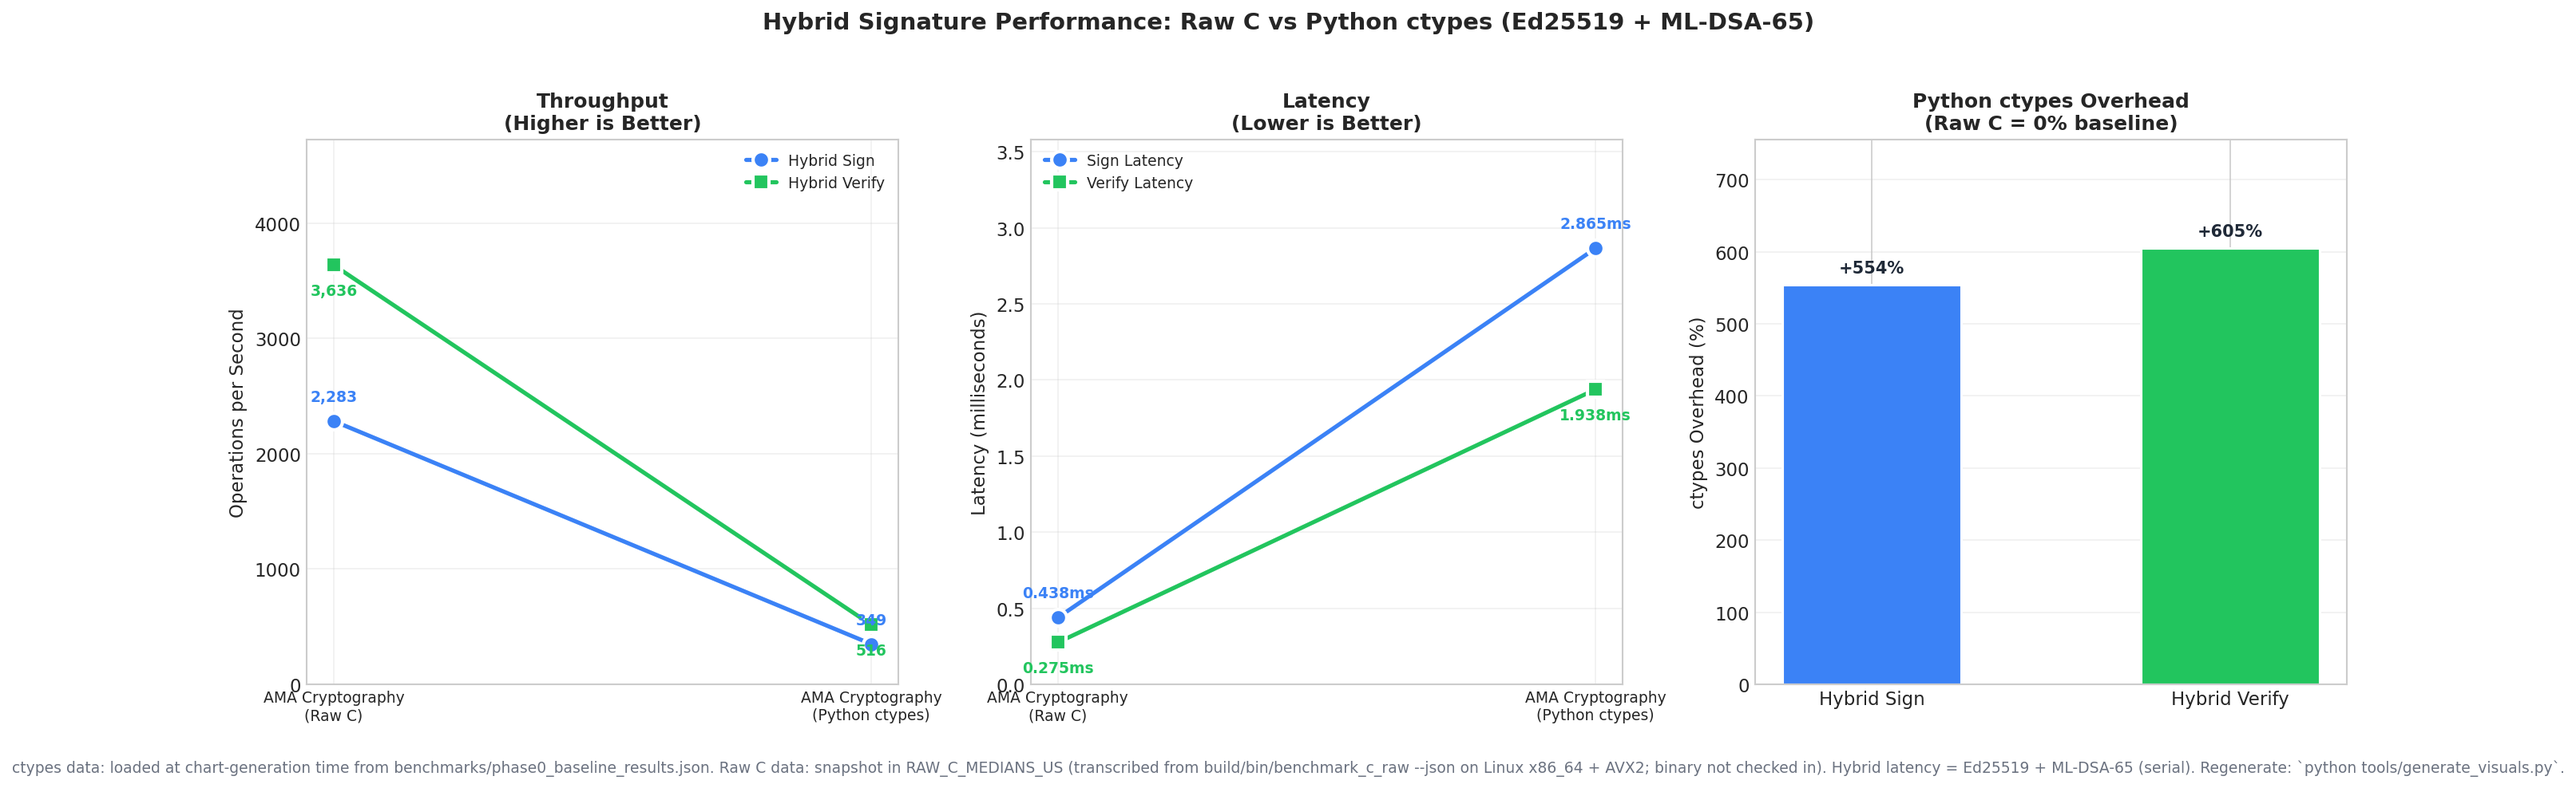
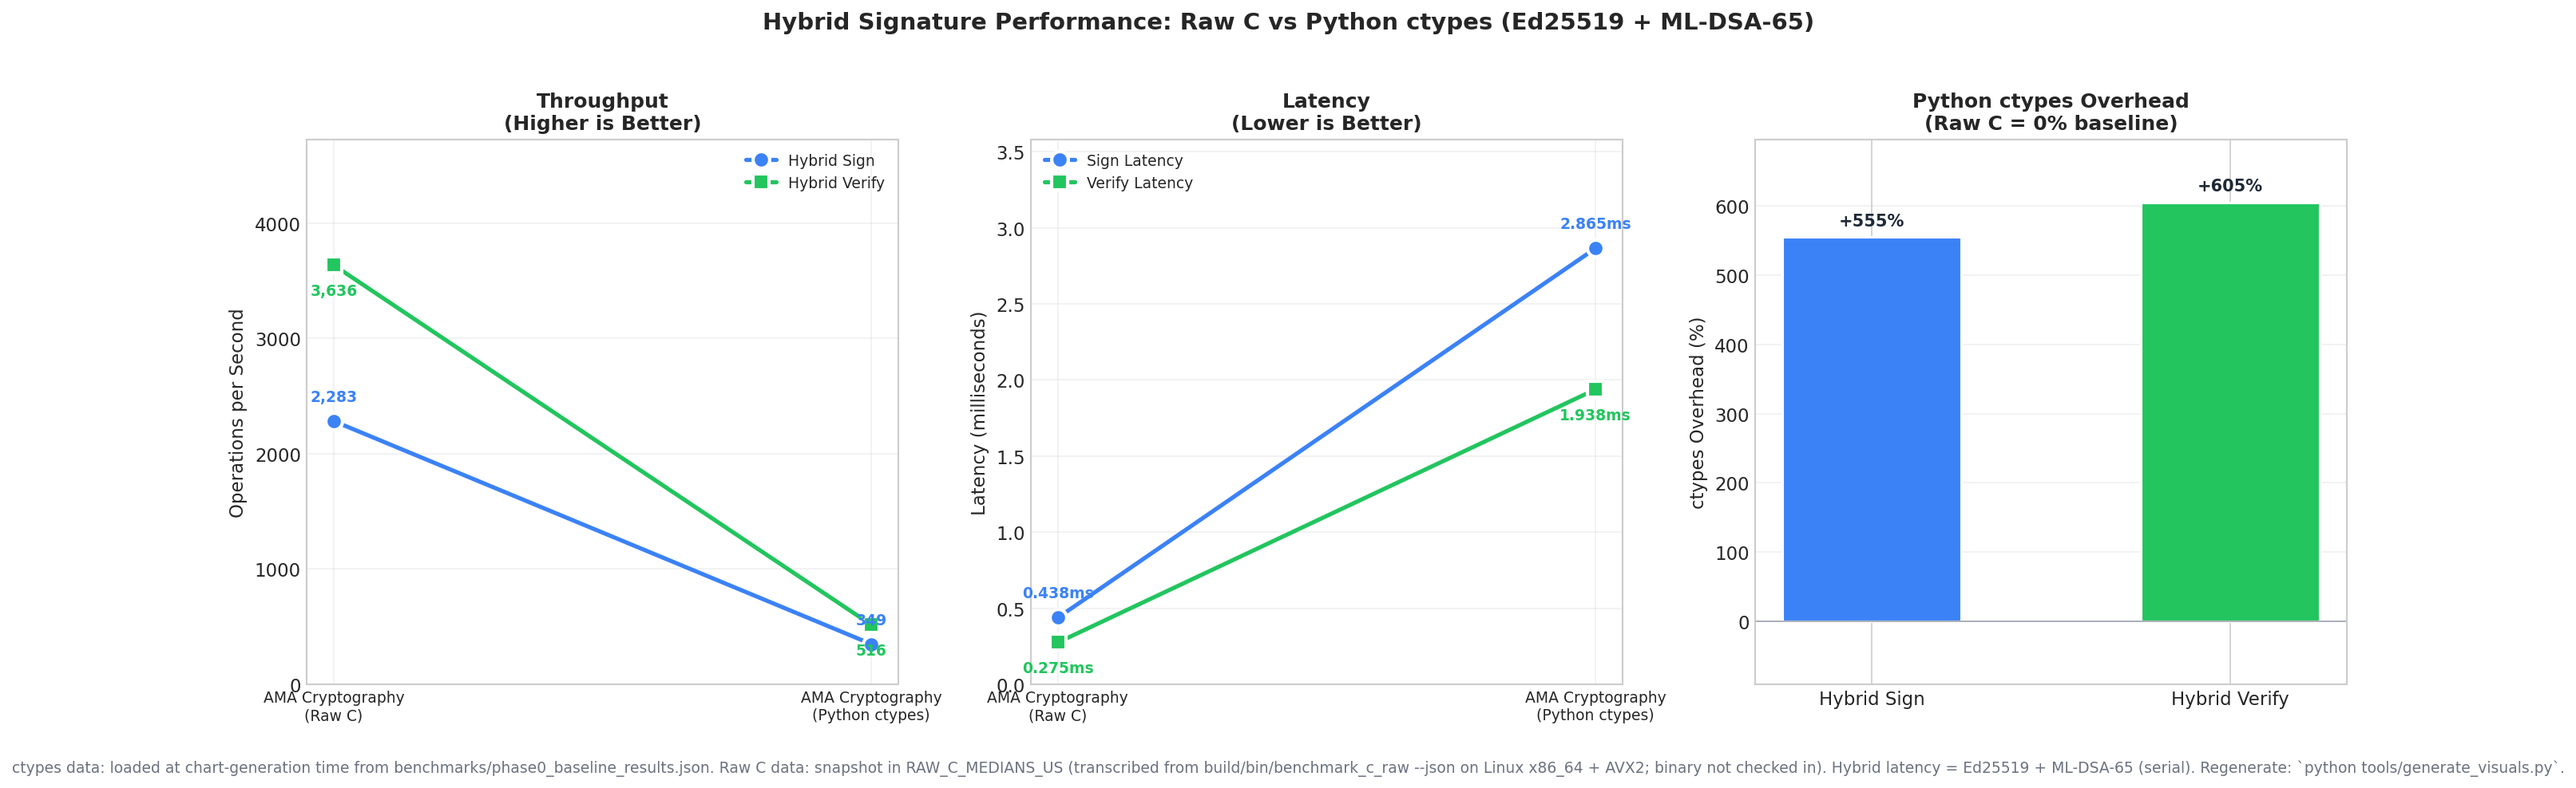
fix(charts): compute ctypes-overhead from raw medians; harden bar rendering
Two Copilot round-4 review comments on tools/generate_visuals.py
(`create_performance_comparison`):

* r3107540958 (line 241): overhead% was derived from throughputs that
  had already been rounded to integer ops/sec. For close values the
  rounding could skew the percentage and, in the limit, flip its
  sign. Compute `sign_overhead` / `verify_overhead` directly from the
  underlying microsecond medians (`ctypes_*_us / raw_*_us - 1`) and
  only round at display time. Integer-rounded throughputs remain in
  use for the ops/sec plot, where integer display is the intended
  precision.

* r3107540966 (line 385): the bar labels and ylim assumed overhead
  was always positive. `f"+{val:.0f}%"` would mis-format zero/negative
  values and `set_ylim(0, max * 1.25)` would error or hide bars if
  any overhead went ≤ 0. Switched labels to the signed `"{:+.0f}%"`
  (always visibly tagged + or -), compute ylim from
  `min([*overhead, 0], ...)` / `max([*overhead, 0], ...)` with 15%
  padding, draw a 0% reference line, and place each label above/below
  the bar tip depending on its sign. The expected positive regime is
  unchanged visually.

Regenerated assets/performance_comparison.png: labels now read
"+555% / +605%" (previously "+554% / +606%") — the small numeric
delta is the rounding fix making itself visible in the third
significant figure.

diff --git a/tools/generate_visuals.py b/tools/generate_visuals.py
@@ -227,18 +227,19 @@ def create_performance_comparison():
     raw_sign_us = RAW_C_MEDIANS_US["ed25519_sign"] + RAW_C_MEDIANS_US["mldsa65_sign"]
     raw_verify_us = RAW_C_MEDIANS_US["ed25519_verify"] + RAW_C_MEDIANS_US["mldsa65_verify"]
 
+    # Derive overhead directly from the microsecond medians — rounding
+    # throughputs to integers first (see ops/sec plots) can skew the
+    # percentage and, for close values, even flip its sign. We only
+    # round at display time.
+    sign_overhead = (ctypes_sign_us / raw_sign_us - 1) * 100
+    verify_overhead = (ctypes_verify_us / raw_verify_us - 1) * 100
+
     sign_throughput = [round(1_000_000 / raw_sign_us), round(1_000_000 / ctypes_sign_us)]
     verify_throughput = [round(1_000_000 / raw_verify_us), round(1_000_000 / ctypes_verify_us)]
 
     # Derived latency data (ms = 1000 / ops_per_sec)
     sign_latency = [1000 / v for v in sign_throughput]
     verify_latency = [1000 / v for v in verify_throughput]
-
-    # ctypes overhead (%) = (raw_C_throughput / ctypes_throughput - 1) * 100
-    # i.e. how much extra time the Python ctypes path takes per operation
-    # relative to the raw C path. Positive values mean ctypes is slower.
-    sign_overhead = (sign_throughput[0] / sign_throughput[1] - 1) * 100
-    verify_overhead = (verify_throughput[0] / verify_throughput[1] - 1) * 100
 
     # === Panel 1: Throughput Line Chart ===
     ax1 = axes[0]
@@ -364,13 +365,21 @@ def create_performance_comparison():
         linewidth=1.5,
         width=0.5,
     )
+    # Axis range and label placement handle both positive (ctypes slower,
+    # expected case) and hypothetical non-positive (ctypes as fast or
+    # faster than raw C) values. `{:+.0f}%` always shows the sign so a
+    # regression into negative territory is obvious.
+    lo, hi = min([*overhead, 0.0]), max([*overhead, 0.0])
+    span = max(hi - lo, 1.0)  # avoid zero-height axis if every bar is 0
+    pad = span * 0.15
     for bar, val in zip(bars3, overhead):
+        offset = span * 0.02
         ax3.text(
             bar.get_x() + bar.get_width() / 2,
-            bar.get_height() + max(overhead) * 0.02,
-            f"+{val:.0f}%",
+            val + (offset if val >= 0 else -offset),
+            f"{val:+.0f}%",
             ha="center",
-            va="bottom",
+            va="bottom" if val >= 0 else "top",
             fontsize=10,
             fontweight="bold",
             color="#1F2937",
@@ -381,7 +390,8 @@ def create_performance_comparison():
         fontsize=12,
         fontweight="bold",
     )
-    ax3.set_ylim(0, max(overhead) * 1.25)
+    ax3.axhline(0, color="#9CA3AF", linewidth=0.8)
+    ax3.set_ylim(lo - pad, hi + pad)
     ax3.grid(True, alpha=0.3, axis="y")
 
     # Overall title and footer
